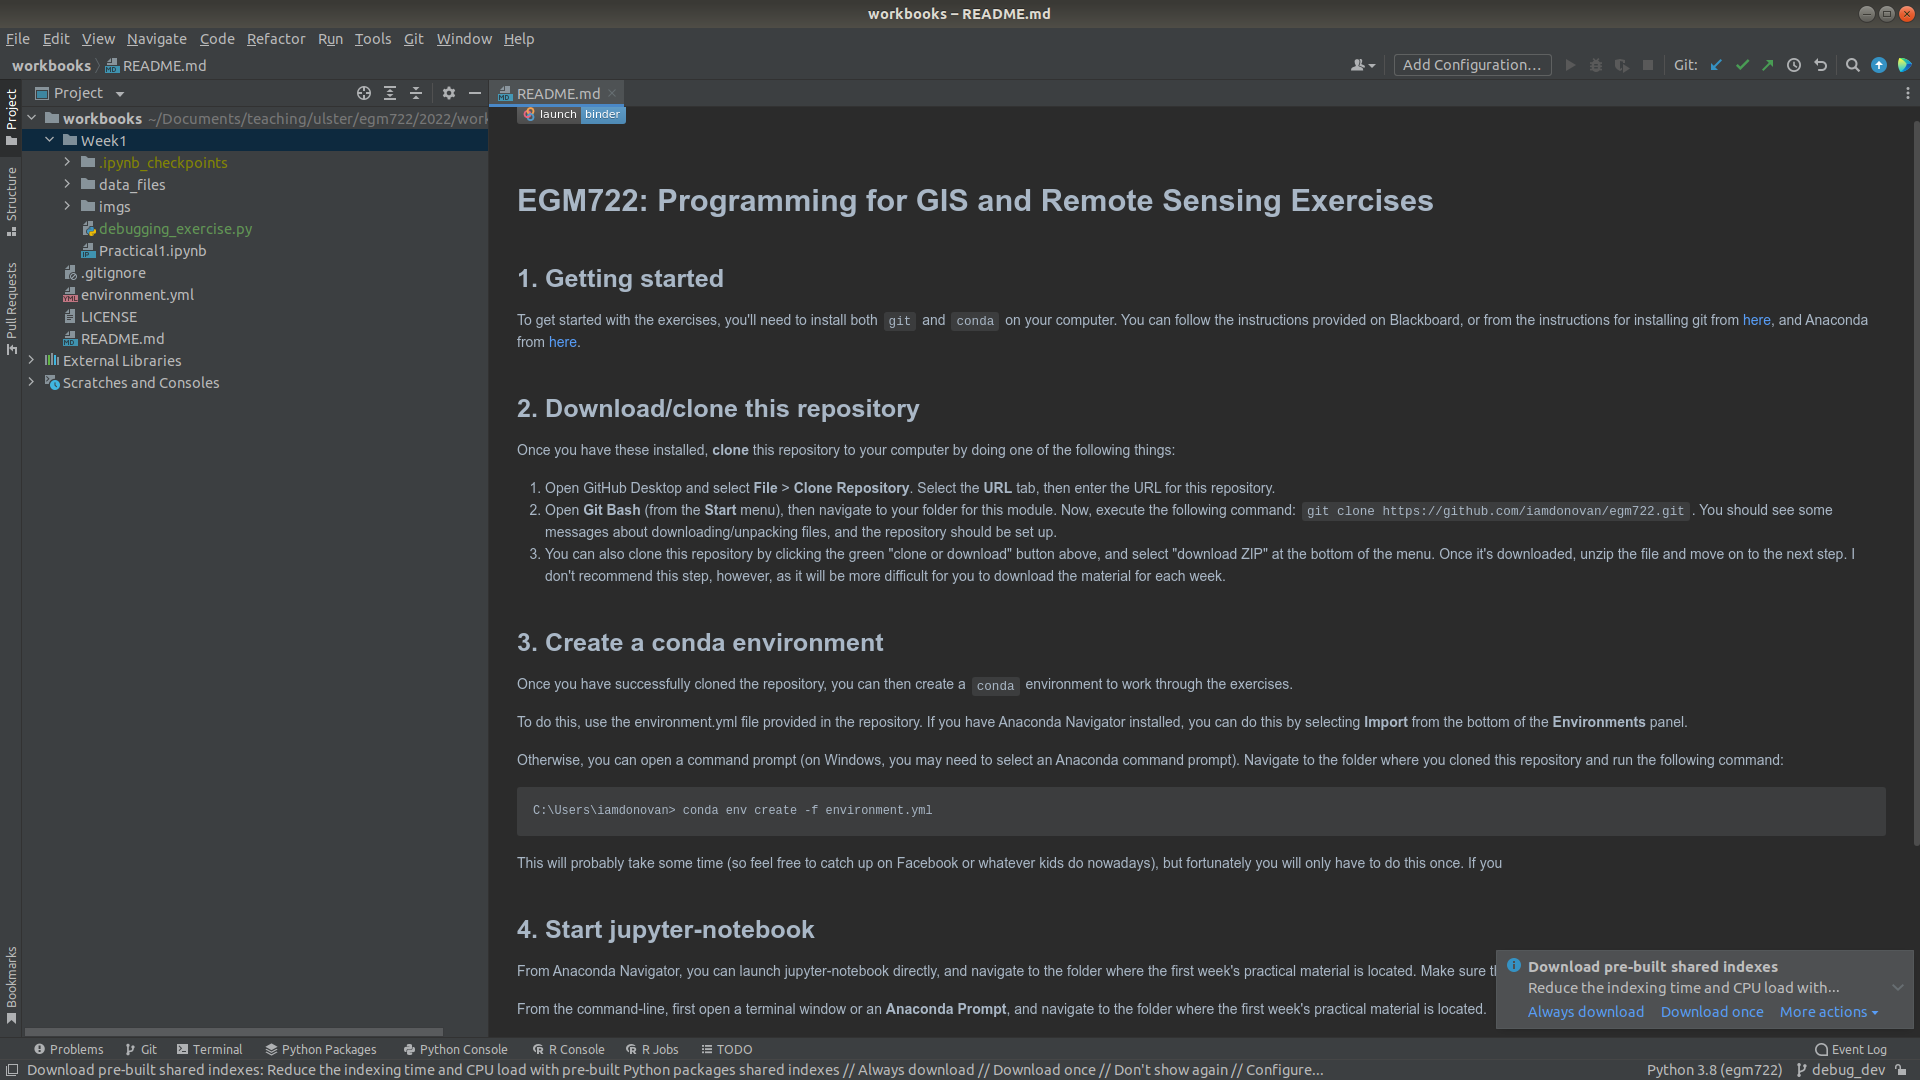
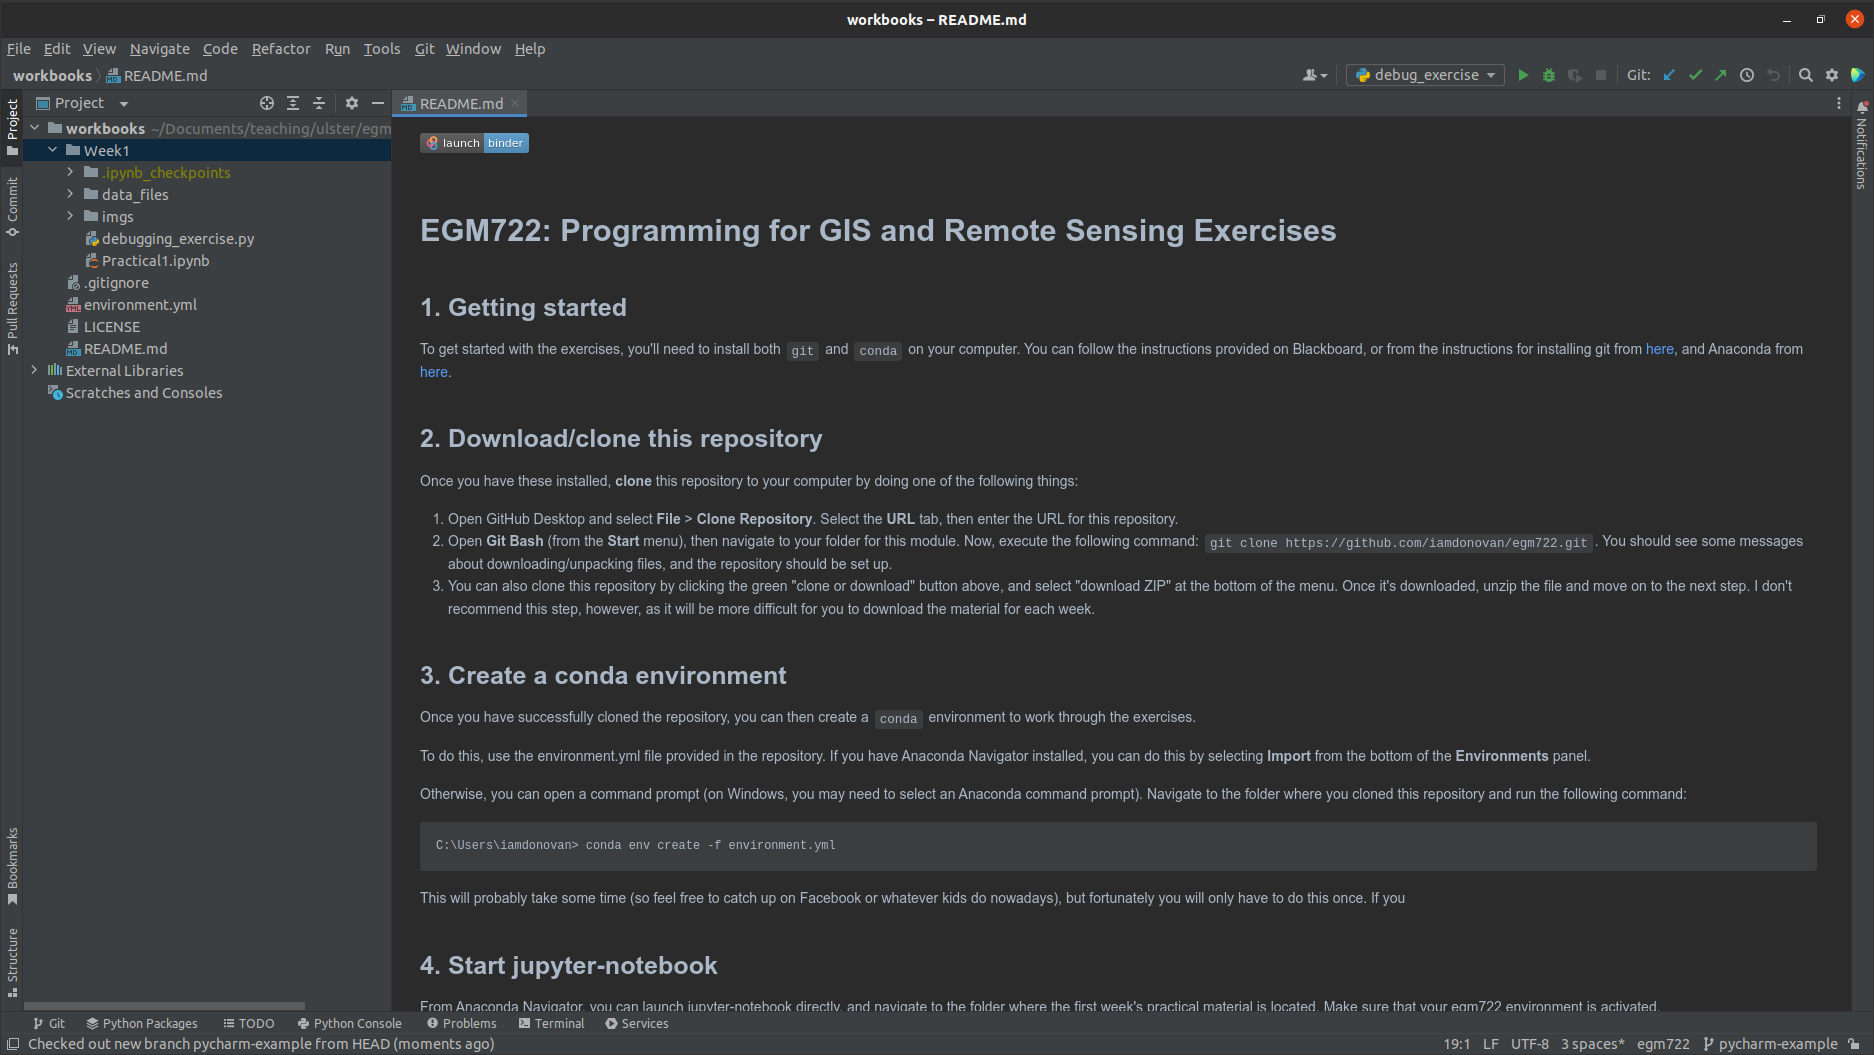
finish adding pycharm tour, fix some typos

diff --git a/docs/teaching/egm722/setup/pycharm.rst b/docs/teaching/egm722/setup/pycharm.rst
@@ -119,27 +119,123 @@ Once the new project has been created, you should see something like this:
 the file browser
 ..................
 
+On the left side of the **PyCharm** window, you should see a file browser (note that you may need to click on the
+**Project** tab to expand the frame).
+
+Here, you can see all of the files and folders included in the project. To open a script or other file, double-click on
+it in the file browser. For example, here is ``debugging_exercise.py``:
+
+.. image:: ../../../img/egm722/setup/pycharm/script_open.png
+    :width: 720
+    :align: center
+    :alt: the pycharm interface with the debugging exercise script opened
 
 
-opening a script
-..................
+creating a new script
+......................
+
+You can also create a new file by right-clicking in the file browser and selecting **New**, followed by the file
+type. To create a new python script, it would be: right-click > **New** > **Python File**.
+
+Type the name of the new script in the box that appears, and press **Enter**.
+
+.. warning::
+
+    Remember to include the extension (``.py``) as part of the filename!
+
+PyCharm interfaces with **git** to help you keep track of your projects, so it asks you if you want to add the file to
+**git**. Click **Add** to do this, and you should see the new file appear in the file browser, and in the main panel:
+
+.. image:: ../../../img/egm722/setup/pycharm/new_script.png
+    :width: 720
+    :align: center
+    :alt: the pycharm interface with the new script opened up
 
 
+using git
+..........
+
+Note that the filename is colored in green, indicating that the file has been *staged* by **git**. Just like with
+**GitHub Desktop**, we can use PyCharm along with git to keep track of changes to our files.
+
+Under the **Project** tab, you should see a **Commit** tab - click this to bring up the list of current changes:
+
+.. image:: ../../../img/egm722/setup/pycharm/commit.png
+    :width: 720
+    :align: center
+    :alt: the pycharm interface with the commit tab showing
+
+|br| In the list of current changes, we can see that one file has been affected: ``new_script.py``.
+
+Before we press **Commit**, we should first write a commit message, which we can do in the lower box of the panel:
+
+.. image:: ../../../img/egm722/setup/pycharm/commit_message.png
+    :width: 720
+    :align: center
+    :alt: the pycharm interface with the commit message written
+
+|br| Press **Commit**, and you should see the filename change from green to white.
+
+Now, when you make changes to the file, the color will change again, this time to blue:
+
+.. image:: ../../../img/egm722/setup/pycharm/changes.png
+    :width: 720
+    :align: center
+    :alt: the pycharm interface showing the file name change from white to green, indicating uncommitted changes
+
+|br| This indicates that we have unstaged and uncommitted changes to the file\ [3]_. We don't need to commit every small
+change that we make, but it's a idea to do this regularly, and to **push** the changes to the remote repository
+(so that they're backed up). Don't worry about all of this now - we will come back to these ideas over the course of
+the module.
 
 terminal interface
 ....................
 
+Along the bottom of the PyCharm window, you should see a number of tabs, including one that says **Terminal**. Click
+this to open a **Terminal** (**Command Prompt**):
+
+.. image:: ../../../img/egm722/setup/pycharm/terminal.png
+    :width: 720
+    :align: center
+    :alt: the pycharm interface with the terminal window open
+
+|br| You can use this in the same way that you would the "normal" **Command Prompt**. If you have configured an
+interpreter for your project, it should open as an **Anaconda Command Prompt** with that environment activated,
+meaning that you can use it to run scripts in that environment:
+
+.. image:: ../../../img/egm722/setup/pycharm/run_script.png
+    :width: 720
+    :align: center
+    :alt: the pycharm interface with the terminal window open, and a script having exited in error
 
 python console
 ................
 
+Next to the **Terminal** tab, you should also see a **Python Console** tab:
 
+.. image:: ../../../img/egm722/setup/pycharm/python_console.png
+    :width: 720
+    :align: center
+    :alt: the pycharm interface with the python console window open
 
-using git
-............
+|br| This opens an **iPython** (**i**\ nteractive **Python**) terminal, which you can use in the same way that you
+would use the cells of a **jupyter** notebook:
 
+.. image:: ../../../img/egm722/setup/pycharm/console_output.png
+    :width: 720
+    :align: center
+    :alt: the pycharm interface with the python console window open, and the statement 2 + 2 (output 4)
 
-- mention git (provide links to further help)
+more resources
+................
+
+That ends the "tour" of PyCharm - there are many, many more features available, but this should provide enough to
+get you started. If you're interested in learning more of the features, here are a few links to get you going:
+
+- Quick start guide [`JetBrains <https://www.jetbrains.com/help/pycharm/quick-start-guide.html>`__]
+- Quick Tour [`JetBrains <https://www.youtube.com/watch?v=BPC-bGdBSM8>`__]
+- Pycharm Tutorial #1 [`Tech With Tim <https://www.youtube.com/watch?v=56bPIGf4us0>`__]
+
 
 .. _adding interpreter:
 
@@ -217,3 +313,6 @@ notes and references
 
 .. [2] The ``~`` symbol is used to denote the "home" directory for a user. On Windows, this would be ``C:\Users\user``.
     On MacOS, this is ``/Users/user``, and on linux it is ``/home/user``.
+
+.. [3] Other colors include red, which indicates files that are not tracked by **git**, and yellow/amber, which
+    indicates files that are ignored by **git** (i.e., included in the ``.gitignore`` file).

diff --git a/docs/teaching/egm722/setup/environment.rst b/docs/teaching/egm722/setup/environment.rst
@@ -124,7 +124,7 @@ anaconda command prompt
 From the **Start** menu, open the **Anaconda Command Prompt**:
 
 .. image:: ../../../img/egm722/setup/environment/anaconda_prompt.png
-    :width: 400
+    :width: 300
     :align: center
     :alt: the anaconda command prompt in the start menu
 
@@ -140,7 +140,7 @@ From the **Start** menu, open the **Anaconda Command Prompt**:
     it likely means that you have opened the normal **Command Prompt**, and so you will see the following error when
     you try to run a command with **conda**:
 
-    .. image:: ../../../img/egm722/setup/environment/anaconda_prompt.png
+    .. image:: ../../../img/egm722/setup/environment/conda_not_found.png
         :width: 600
         :align: center
         :alt: an error stating that conda is not recognized as a command
@@ -153,7 +153,7 @@ Next, navigate to where you have cloned the repository using ``cd``:
 
 If you're in the right place, you should see all of the files from the repository when you enter the ``dir`` command:
 
-.. image:: ../../../img/egm722/setup/environment/anaconda_prompt.png
+.. image:: ../../../img/egm722/setup/environment/conda_dir_output.png
     :width: 720
     :align: center
     :alt: the output of the dir command in the egm722 directory

diff --git a/docs/teaching/egm722/setup/jupyter.rst b/docs/teaching/egm722/setup/jupyter.rst
@@ -1,6 +1,10 @@
 configuring jupyter
 ====================
 
+.. note::
+
+    This step is **optional**, as in *most* cases you will be able to use **jupyter** with the default settings.
+
 By default, **jupyter notebook** will open in your ``home`` directory (on Windows, this is most likely
 ``C:\Users\<your_username>``. If you have cloned the repository to a different location (e.g., ``C:\egm722\``,
 or an external drive such as ``D:\``), you may want to set notebook to open to that folder.
